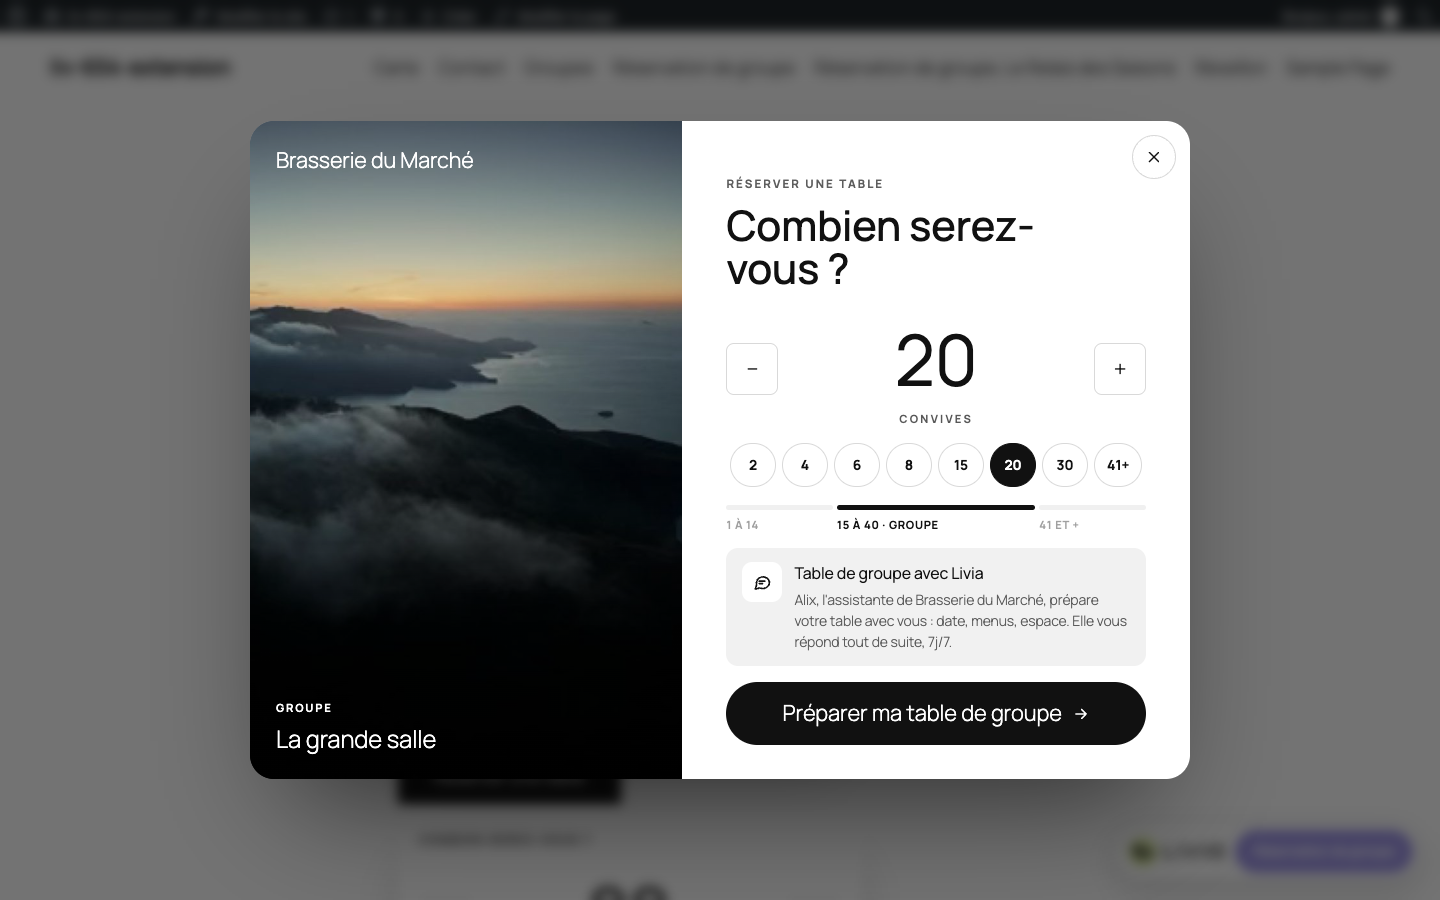
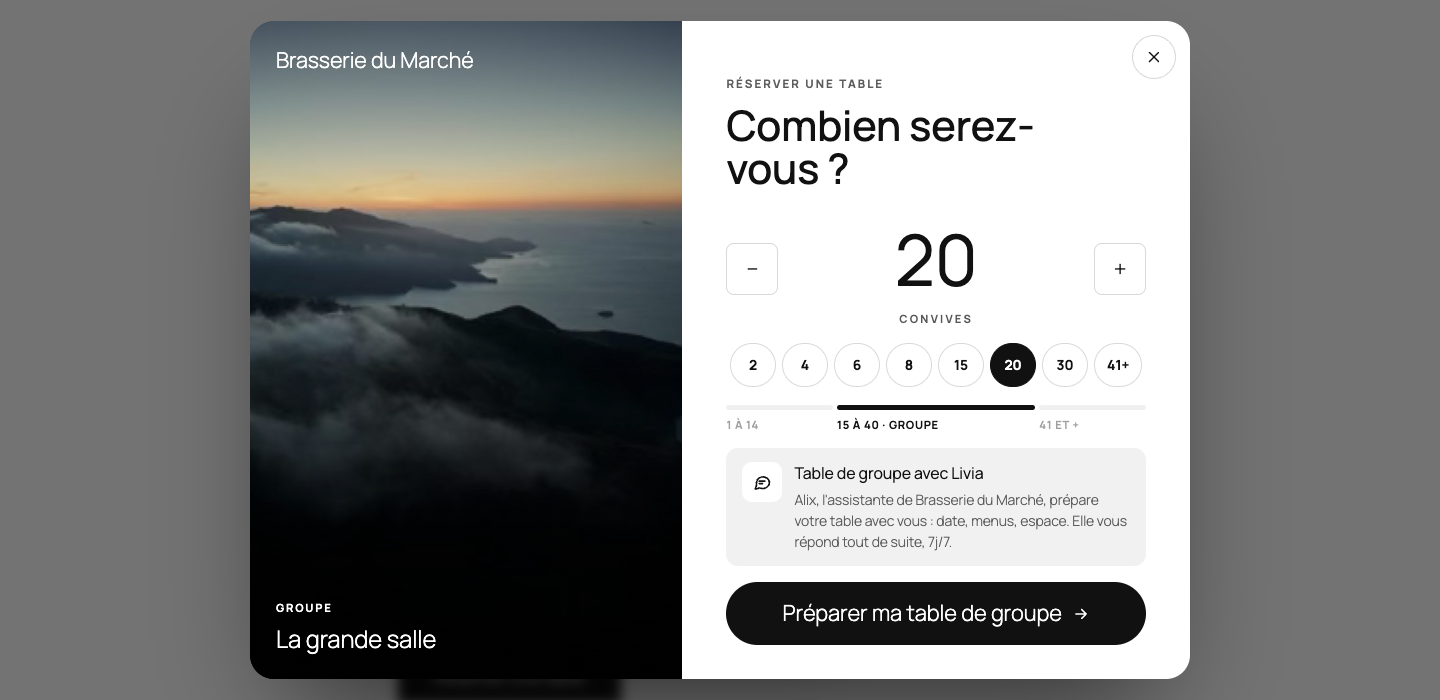
docs: corrections de la revue (publication, multisite, captures) et override de glob sous rimraf

diff --git a/README.md b/README.md
@@ -45,13 +45,18 @@ conversational assistant without any code.
    pages, the address of its booking page, and its thresholds and paths. Each tab saves on its own.
 
 Deactivating the plugin turns the published group booking pages into drafts; activating it again publishes them
-again. Deleting the plugin leaves the pages as drafts and removes its settings.
+again. On a multisite network, a network-wide deactivation or activation does so on every site. Removing a
+restaurant turns its page into a draft. Deleting the plugin leaves the pages as drafts and removes its settings.
 
 ## Updates
 
 Updates come through WordPress's standard update screen, served by Livia to sites presenting a valid restaurant key.
 Each release zip carries an Ed25519 signature: the plugin installs a downloaded update only when the signature
 matches the public key it embeds. See [SECURITY.md](SECURITY.md).
+
+On a network where the plugin is active on sub-sites only, the network's update screen runs without the plugin, so
+nothing would check the signature there: it lists the new version without a package, to be installed by hand from the
+`.zip` of the release.
 
 ## Configuration
 
@@ -60,7 +65,7 @@ The plugin calls the Livia service at `https://chat.booking.wearelivia.com`. A s
 
 ```php
 define( 'LIVIA_SERVICE_URL', 'https://...' ); // Address the WordPress server calls.
-define( 'LIVIA_PUBLIC_URL', 'https://...' );  // Address visitors' browsers load scripts from; defaults to LIVIA_SERVICE_URL.
+define( 'LIVIA_PUBLIC_URL', 'https://...' );  // Address visitors' browsers load scripts and previews from; defaults to LIVIA_SERVICE_URL.
 ```
 
 ## Local development
@@ -101,13 +106,33 @@ npx wp-env run tests-cli --env-cwd=wp-content/plugins/livia-wordpress env LIVIA_
 ```
 
 The CI (`.github/workflows/ci.yml`) runs these checks under WordPress 6.5 with PHP 7.4 and WordPress 7.1 with
-PHP 8.3, and builds the zip.
+PHP 8.3 (the Elementor run under WordPress 7.1 only), and builds the zip.
 
 ### Translations
 
 Source strings are in English; the French translation is `languages/livia-fr_FR.po`. With wp-env started and the
 scripts built, `npm run i18n` updates `livia.pot` and `livia-fr_FR.po` and compiles the translations. Translate the new
 entries, then run it again.
+
+## Publishing a version
+
+1. Set the new version in `livia.php` (the `Version` header and `LIVIA_VERSION`) and as `Stable tag` in `readme.txt`.
+2. Merge to `main`, then push a tag `v<version>` on that commit.
+3. The Release workflow (`.github/workflows/release.yml`) builds `livia-<version>.zip` in a job without any secret,
+   then, in a second job that installs and builds nothing, checks the zip against the tag (`bin/check-zip.mjs`),
+   signs it (`bin/sign-zip.mjs`) and attaches the zip and `livia-<version>.zip.sig` (its detached Ed25519 signature,
+   base64) to the GitHub release of the tag. It fails when the tag is not on `main`, when the tag differs from the
+   plugin version, when the signing secret is missing, or when `Livia_Updater::SIGNING_KEY` is empty or does not
+   verify the signature.
+
+The second job runs in the GitHub environment `release`, which only accepts the tags `v*` and requires a reviewer's
+approval. The secret `LIVIA_WP_SIGNING_KEY`, the private key (the 32-byte Ed25519 seed in base64), is stored in that
+environment only, never in the repository's secrets. The matching public key (32 bytes in base64) is
+`Livia_Updater::SIGNING_KEY` in `includes/class-livia-updater.php`. To generate a pair:
+
+```bash
+node -e "const k=require('crypto').generateKeyPairSync('ed25519');console.log('LIVIA_WP_SIGNING_KEY', k.privateKey.export({format:'der',type:'pkcs8'}).subarray(16).toString('base64'));console.log('SIGNING_KEY', k.publicKey.export({format:'der',type:'spki'}).subarray(12).toString('base64'))"
+```
 
 ## Security
 
